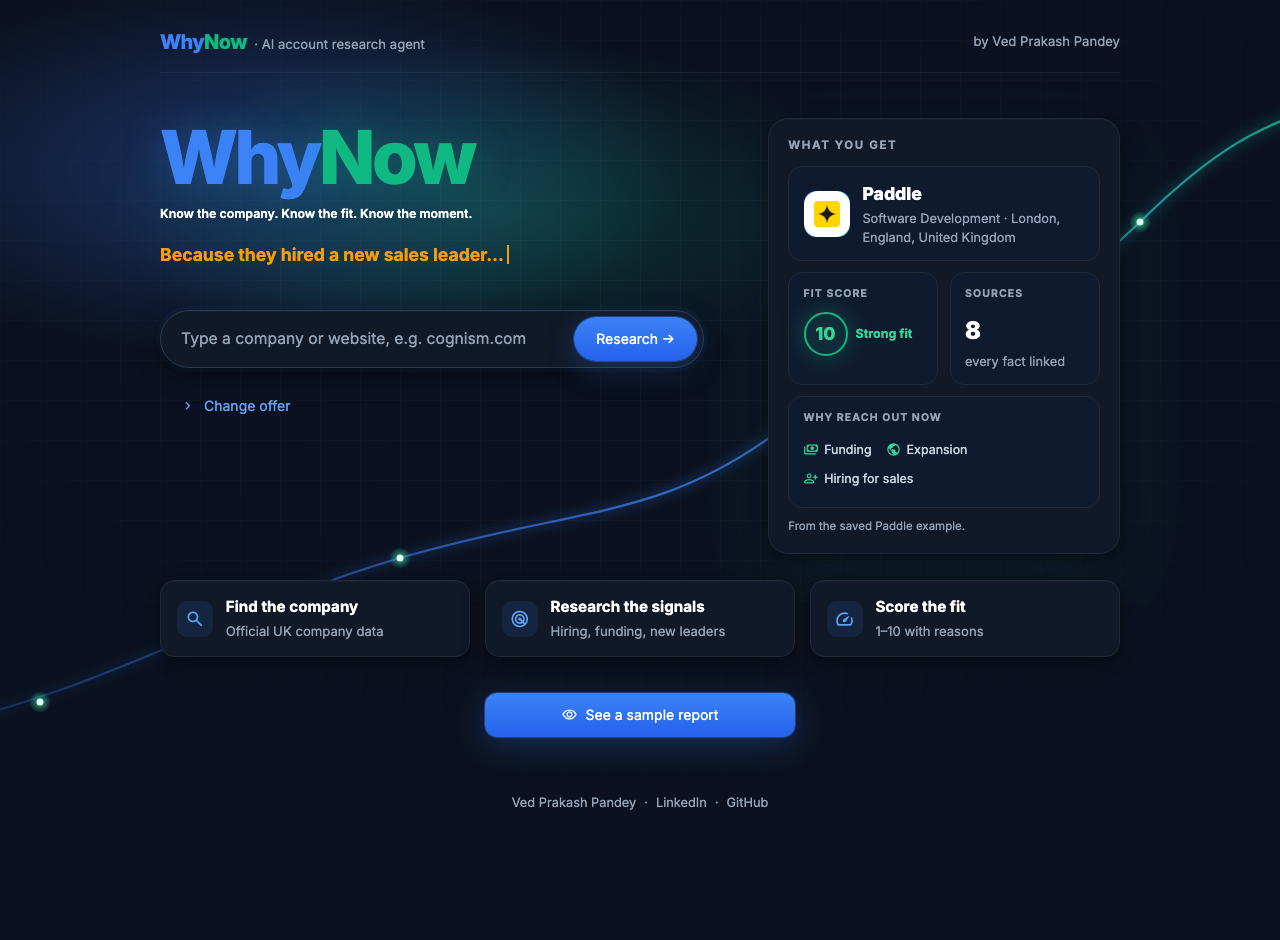
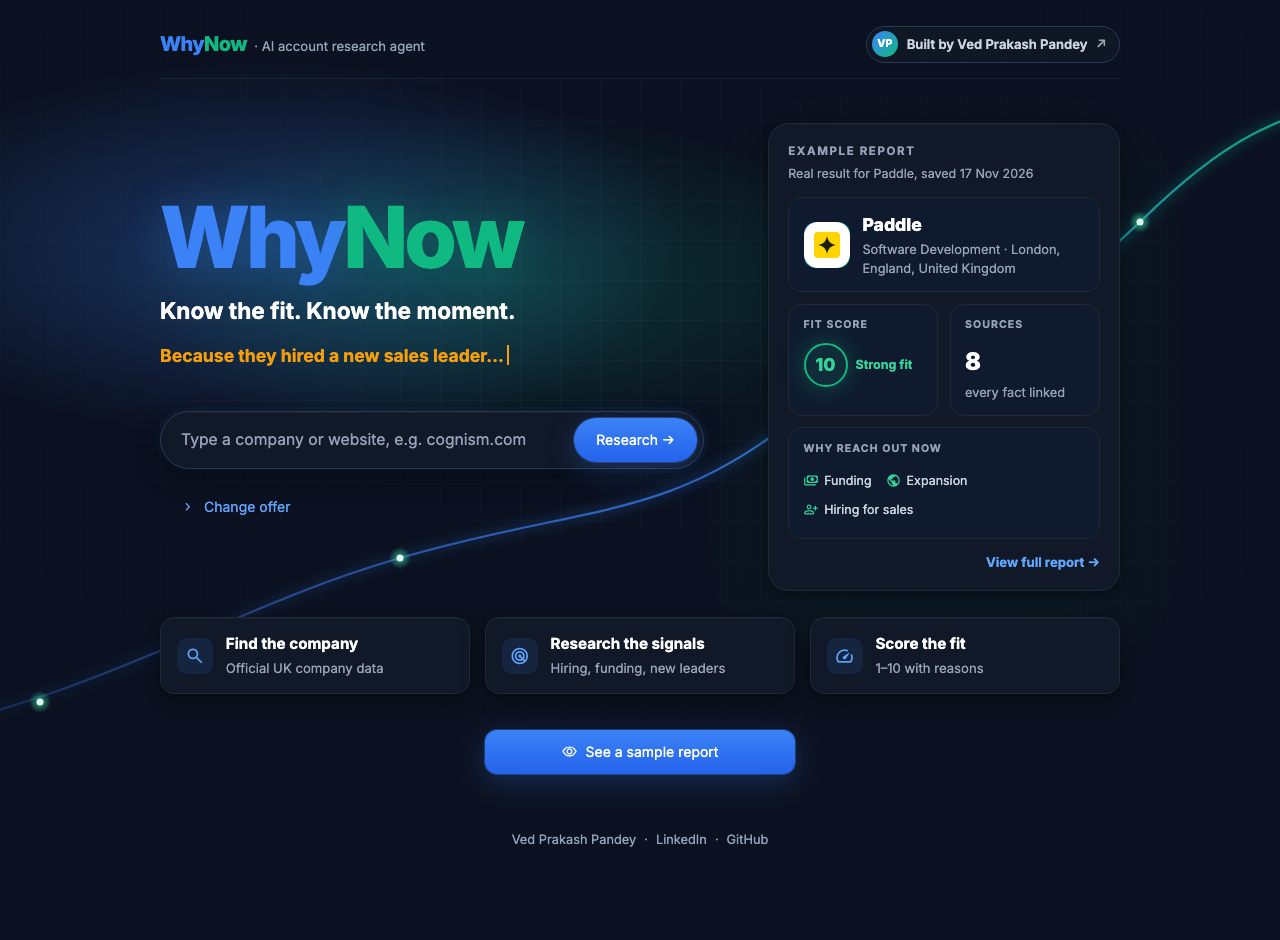
Author pill, bigger title with 'Know the fit. Know the moment.', centred hero, offer hint, clickable example report card

diff --git a/ui/style.css b/ui/style.css
@@ -66,22 +66,30 @@ a:hover { text-decoration: underline; }
 .wn-mini { font-size: 1.25rem; font-weight: 800; color: var(--blue); letter-spacing: -0.03em; }
 .wn-mini span { color: var(--emerald); }
 .wn-topbar-label { color: var(--muted); font-size: 0.82rem; }
-.wn-topbar-by { color: var(--muted) !important; font-size: 0.82rem; }
-.wn-topbar-by:hover { color: var(--head) !important; text-decoration: none; }
+.wn-built { display: inline-flex; align-items: center; gap: 0.55rem; padding: 0.3rem 0.8rem 0.3rem 0.3rem; border-radius: 999px;
+  border: 1px solid var(--line-strong); background: rgba(17, 24, 39, 0.7); color: var(--body) !important; font-size: 0.82rem;
+  font-weight: 600; transition: border-color .15s, box-shadow .15s, color .15s; }
+.wn-built:hover { text-decoration: none; color: var(--head) !important; border-color: rgba(59, 130, 246, 0.6);
+  box-shadow: 0 0 0 3px rgba(59, 130, 246, 0.12), 0 0 18px rgba(16, 185, 129, 0.18); }
+.wn-vp { display: inline-flex; align-items: center; justify-content: center; width: 26px; height: 26px; border-radius: 50%;
+  background: linear-gradient(135deg, var(--blue), var(--emerald)); color: #FFFFFF; font-size: 0.66rem; font-weight: 800; letter-spacing: 0.02em; }
+.wn-built-short { display: none; }
+.wn-arrow { color: var(--muted); font-size: 0.8rem; }
+.wn-built:hover .wn-arrow { color: var(--emerald-bright); }
 .wn-home:hover { text-decoration: none; opacity: 0.85; }
 .wn-back { display: inline-block; color: var(--muted) !important; font-size: 0.85rem; font-weight: 600; margin: 0.2rem 0 0.4rem; }
 .wn-back:hover { color: var(--head) !important; text-decoration: none; }
 
 /* ---------- Hero (left column) ---------- */
 .wn-hero { padding: 1.4rem 0 0.2rem; }
-.wn-wordmark { font-size: 4.6rem; font-weight: 800; color: var(--blue); letter-spacing: -0.045em; line-height: 1;
+.wn-wordmark { font-size: 5.3rem; font-weight: 800; color: var(--blue); letter-spacing: -0.045em; line-height: 1;
   text-shadow: 0 0 40px rgba(59, 130, 246, 0.25); }
 .wn-wordmark span { color: var(--emerald); text-shadow: 0 0 40px rgba(16, 185, 129, 0.25); }
 /* Title block: as wide as the "WhyNow" title, so the headline under it can match its width */
 .wn-title { display: inline-block; }
 .wn-title .wn-wordmark { display: inline-block; }
-/* Headline: one line, no wider than the title (about 0.17 x the title's size), white, lighter weight */
-.stApp .wn-headline, .wn-headline { font-size: calc(4.6rem * 0.168); font-weight: 600; color: var(--head); margin: 0.7rem 0 0;
+/* Headline: one line, white and bold, sized to fill close to the title's width without going past it */
+.stApp .wn-headline, .wn-headline { font-size: calc(5.3rem * 0.268); font-weight: 700; color: var(--head); margin: 1rem 0 0;
   padding: 0; letter-spacing: 0; line-height: 1.3; white-space: nowrap; }
 .wn-headline span { white-space: nowrap; }  /* each short sentence stays on one line */
 
@@ -125,14 +133,24 @@ a:hover { text-decoration: underline; }
 .st-key-wn_search [data-testid="stFormSubmitButton"] > button { border-radius: 999px; padding: 0 1.4rem; min-height: 2.75rem; white-space: nowrap; }
 /* "Change offer": a tiny link under the bar */
 .st-key-wn_offer details { background: transparent !important; border: none !important; box-shadow: none !important; }
+.st-key-wn_offer summary, .st-key-wn_offer summary:hover { background: transparent !important; }
 .st-key-wn_offer summary { padding: 0.35rem 0 0 1.25rem; color: var(--blue-bright); font-size: 0.8rem; font-weight: 600; }
 .st-key-wn_offer summary svg { width: 14px; height: 14px; }
+.st-key-wn_offer [data-testid="stExpanderDetails"] { background: var(--card); border: 1px solid var(--line); border-radius: 14px;
+  padding: 0.9rem 1rem 0.7rem !important; margin-top: 0.4rem; box-shadow: var(--shadow); }
+.st-key-wn_offer [data-testid="stCaptionContainer"] { color: var(--muted); font-size: 0.78rem; }
 
 /* ---------- Preview card (right column) ---------- */
 /* Solid (not see-through), so the growth line passes fully behind it */
 .wn-preview { background: var(--card); border: 1px solid var(--line); border-radius: 20px; padding: 1.1rem 1.2rem;
   box-shadow: var(--shadow), 0 30px 80px rgba(16, 185, 129, 0.08); margin-top: 1.2rem; position: relative; }
-.wn-preview-title { color: var(--muted); font-size: 0.72rem; font-weight: 700; letter-spacing: 0.14em; margin-bottom: 0.7rem; }
+.wn-preview-title { color: var(--muted); font-size: 0.72rem; font-weight: 700; letter-spacing: 0.14em; }
+.wn-preview-sub { color: var(--muted); font-size: 0.78rem; margin: 0.25rem 0 0.8rem; }
+a.wn-preview-link { display: block; color: inherit !important; transition: border-color .15s, box-shadow .15s, transform .15s; }
+a.wn-preview-link:hover { text-decoration: none; border-color: rgba(59, 130, 246, 0.55); transform: translateY(-2px);
+  box-shadow: var(--shadow), 0 0 0 3px rgba(59, 130, 246, 0.10), 0 30px 80px rgba(16, 185, 129, 0.14); }
+.wn-pv-view { color: var(--blue-bright); font-size: 0.82rem; font-weight: 700; margin-top: 0.8rem; text-align: right; }
+a.wn-preview-link:hover .wn-pv-view { color: var(--emerald-bright); }
 .wn-pv { background: var(--tile); border: 1px solid var(--line); border-radius: 14px; padding: 0.8rem 0.9rem; }
 .wn-pv-grid { display: grid; grid-template-columns: 1fr 1fr; gap: 0.7rem; margin-top: 0.7rem; }
 /* Fit score and sources side by side; "why now" full width underneath, its signals in one row */
@@ -259,13 +277,15 @@ a:hover { text-decoration: underline; }
 
 /* ---------- Phones: stack, smaller type ---------- */
 @media (max-width: 760px) {
-  .wn-wordmark { font-size: 3.4rem; }
   .stApp .wn-headline, .wn-headline { font-size: 1.05rem; white-space: normal; }
   .wn-typing span { font-size: 0.98rem; }
   .wn-steps { grid-template-columns: 1fr; }
   .wn-fit { flex-direction: column; }
   .wn-name { font-size: 1.4rem; }
   .wn-topbar-label { display: none; }
+  .wn-built-full { display: none; }
+  .wn-built-short { display: inline; }
+  .wn-wordmark { font-size: 3.6rem; }
   .st-key-wn_search [data-testid="stHorizontalBlock"] { padding-left: 14px; }
   .st-key-wn_search [data-testid="stFormSubmitButton"] > button { padding: 0 1rem; }
 }

diff --git a/ui/components.py b/ui/components.py
@@ -100,11 +100,20 @@ def topbar():
     return (f'<div class="wn-topbar"><div class="wn-topbar-brand">'
             f'<a class="wn-home" href="{HOME_URL}" target="_self" title="Back to home">{wordmark("wn-mini")}</a>'
             f'<span class="wn-topbar-label">· {esc(settings.APP_LABEL)}</span></div>'
-            f'<a class="wn-topbar-by" href="{safe_url(settings.AUTHOR_LINKEDIN)}" target="_blank" '
-            f'rel="noopener noreferrer">by {esc(settings.AUTHOR_NAME)}</a></div>')
+            f'{author_pill()}</div>')
+
+
+def author_pill():
+    """Top-right pill: 'VP' badge, 'Built by …' and ↗, linking to LinkedIn in a new tab."""
+    return (f'<a class="wn-built" href="{safe_url(settings.AUTHOR_LINKEDIN)}" target="_blank" rel="noopener noreferrer">'
+            f'<span class="wn-vp">{esc(settings.AUTHOR_INITIALS)}</span>'
+            f'<span class="wn-built-full">Built by {esc(settings.AUTHOR_NAME)}</span>'
+            f'<span class="wn-built-short">Built by {esc(settings.AUTHOR_SHORT_NAME)}</span>'
+            f'<span class="wn-arrow" aria-hidden="true">↗</span></a>')
 
 
 HOME_URL = "./"   # the home page without "?sample=1"; loading it starts fresh, so the report is cleared
+SAMPLE_URL = "./?sample=1"   # opens the saved sample report
 
 
 def back_link():
@@ -151,8 +160,8 @@ def _background_svg():
     <stop offset="0%" stop-color="#34D399" stop-opacity="0.75"/><stop offset="100%" stop-color="#34D399" stop-opacity="0"/></radialGradient>
   <filter id="blur" x="-50%" y="-50%" width="200%" height="200%"><feGaussianBlur stdDeviation="6"/></filter>
 </defs>
-<ellipse cx="430" cy="210" rx="420" ry="190" fill="url(#auroraBlue)"/>
-<ellipse cx="650" cy="250" rx="380" ry="170" fill="url(#auroraGreen)"/>
+<ellipse cx="430" cy="290" rx="420" ry="190" fill="url(#auroraBlue)"/>
+<ellipse cx="650" cy="320" rx="380" ry="170" fill="url(#auroraGreen)"/>
 <rect width="1600" height="860" fill="url(#grid)" mask="url(#gridmask)"/>
 <path d="{path}" fill="none" stroke="url(#line)" stroke-width="7" stroke-opacity="0.35" filter="url(#blur)"/>
 <path d="{path}" fill="none" stroke="url(#line)" stroke-width="2.2" stroke-linecap="round"/>
@@ -190,15 +199,23 @@ def preview_card(sample=None):
         score = sample["fit_score"]
         signals = [SIGNALS.get(s["type"], (s["type"], "bolt")) for s in sample["signals"][:3]]
         source_count = len(sample["sources"])
-        logo_html, note = logo(p), f"From the saved {esc(name)} example."
+        logo_html = logo(p)
+        subtitle = f"Real result for {esc(name)}, saved {esc(sample.get('saved_on', ''))}"
+        note = '<div class="wn-pv-view">View full report →</div>'
     else:
         name, meta, score, source_count = "Your target company", "Industry · Headquarters", 8, 12
         signals = [SIGNALS["hiring_sales"], SIGNALS["funding"], SIGNALS["new_sales_leader"]]
-        logo_html, note = f'<div class="wn-logo">{icon("domain")}</div>', "Example layout. Every report is built from live, sourced data."
+        logo_html = f'<div class="wn-logo">{icon("domain")}</div>'
+        subtitle = "Example layout. Every report is built from live, sourced data."
+        note = ""
     kind, label = fit_band(score)
     lines = "".join(f'<div class="wn-pv-line">{icon(i)}{esc(t)}</div>' for t, i in signals) \
         or '<div class="wn-pv-line wn-empty">None found</div>'
-    return (f'<div class="wn-preview"><div class="wn-preview-title">WHAT YOU GET</div>'
+    opening = (f'<a class="wn-preview wn-preview-link" href="{SAMPLE_URL}" title="Open the full sample report">'
+               if sample else '<div class="wn-preview">')
+    closing = "</a>" if sample else "</div>"
+    return (f'{opening}<div class="wn-preview-title">EXAMPLE REPORT</div>'
+            f'<div class="wn-preview-sub">{subtitle}</div>'
             f'<div class="wn-pv"><div class="wn-pv-company">{logo_html}'
             f'<div><div class="wn-pv-name">{esc(name)}</div><div class="wn-pv-meta">{meta}</div></div></div></div>'
             f'<div class="wn-pv-grid">'
@@ -208,7 +225,7 @@ def preview_card(sample=None):
             f'<div class="wn-pv"><div class="wn-pv-label">{esc(settings.SIGNALS_TITLE)}</div>{lines}</div>'
             f'<div class="wn-pv"><div class="wn-pv-label">Sources</div><div class="wn-pv-big">{source_count}</div>'
             f'<div class="wn-pv-meta">every fact linked</div></div>'
-            f'</div><div class="wn-pv-note">{note}</div></div>')
+            f'</div>{note}{closing}')
 
 
 def footer():

diff --git a/tests/test_components.py b/tests/test_components.py
@@ -83,18 +83,20 @@ def test_header_has_slogan_and_typing_lines():
     import settings
     out = ui.hero()
     assert "Before you reach out" not in out                       # the old tagline is gone
-    assert ('<h2 class="wn-headline"><span>Know the company.</span> <span>Know the fit.</span> '
-            '<span>Know the moment.</span></h2>') in out
+    assert '<h2 class="wn-headline"><span>Know the fit.</span> <span>Know the moment.</span></h2>' in out
+    assert "Know the company" not in out
     for line in settings.APP_TYPING_LINES:
         assert ui.esc(line) in out
     assert "<script" not in out   # the animation is pure CSS
 
 
-def test_top_bar_has_label_and_byline():
+def test_top_bar_has_label_and_author_pill():
     import settings
     out = ui.topbar()
     assert "AI account research agent" in out
-    assert f'href="{settings.AUTHOR_LINKEDIN}"' in out and "by Ved Prakash Pandey" in out
+    assert f'class="wn-built" href="{settings.AUTHOR_LINKEDIN}" target="_blank"' in out
+    assert '<span class="wn-vp">VP</span>' in out
+    assert "Built by Ved Prakash Pandey" in out and "Built by Ved<" in out and "↗" in out
 
 
 def test_landing_background_is_a_safe_embedded_picture():
@@ -105,16 +107,21 @@ def test_landing_background_is_a_safe_embedded_picture():
 def test_preview_card_without_sample_shows_no_company_facts():
     out = ui.preview_card(None)
     assert "Your target company" in out and "Example layout" in out
+    assert "<a " not in out              # nothing to open without a saved sample
 
 
 def test_preview_card_uses_the_saved_sample():
     sample = {"profile": {"brand": {"value": "Paddle"}, "industry": {"value": "Software Development"},
                           "headquarters": {"value": "London"}, "domain": "paddle.com"},
-              "company": {"name": "PADDLE.COM MARKET LIMITED"}, "fit_score": 9,
+              "company": {"name": "PADDLE.COM MARKET LIMITED"}, "fit_score": 9, "saved_on": "17 Nov 2026",
               "signals": [{"type": "funding"}], "sources": [1, 2, 3]}
     out = ui.preview_card(sample)
     assert "Paddle" in out and "Software Development · London" in out
     assert "Why reach out now" in out
+    assert "EXAMPLE REPORT" in out and "WHAT YOU GET" not in out
+    assert out.startswith('<a class="wn-preview wn-preview-link" href="./?sample=1"')   # whole card opens the sample
+    assert "View full report →" in out and "From the saved" not in out
+    assert "Real result for Paddle, saved 17 Nov 2026" in out
     assert 'wn-badge strong' in out and ">9<" in out and ">3<" in out
 
 

diff --git a/settings.py b/settings.py
@@ -118,7 +118,7 @@ GEMINI_FALLBACK_MODELS = [          # tried in order, once each, if the main mod
 # ---------------------------------------------------------------------------
 APP_NAME = "WhyNow"
 APP_LABEL = "AI account research agent"
-APP_HEADLINE = "Know the company. Know the fit. Know the moment."
+APP_HEADLINE = "Know the fit. Know the moment."
 SIGNALS_TITLE = "Why reach out now"   # the heading for "why now" signals, in the report and the landing preview
 APP_TYPING_LINES = [             # the animated amber line on the landing page
     "Because they're hiring SDRs…",
@@ -127,7 +127,10 @@ APP_TYPING_LINES = [             # the animated amber line on the landing page
     "Because they're expanding to new markets…",
 ]
 SEARCH_PLACEHOLDER = "Type a company or website, e.g. cognism.com"
+OFFER_HINT = "WhyNow uses this to score the fit and write your email."
 AUTHOR_NAME = "Ved Prakash Pandey"
+AUTHOR_SHORT_NAME = "Ved"          # used in the header pill on phones
+AUTHOR_INITIALS = "VP"
 AUTHOR_LINKEDIN = "https://www.linkedin.com/in/ved-prakash-pandey-954493202/"
 AUTHOR_GITHUB = "https://github.com/ved-pandey01"
 SAMPLE_REPORT_FILE = "data/sample_report_paddle.json"   # the saved example behind "See a sample report"

diff --git a/tests/test_app.py b/tests/test_app.py
@@ -93,10 +93,11 @@ def research_and_open(at):
 def test_landing_shows_brand_slogan_and_how_it_works(app):
     app.run()
     page = html(app)
-    for text in [settings.APP_LABEL, "Why<span>Now</span>", "Know the company.", "Know the fit.", "Know the moment.",
+    for text in [settings.APP_LABEL, "Why<span>Now</span>", "Know the fit.", "Know the moment.",
                  "Find the company", "Research the signals", "Score the fit"]:
         assert text in page
     assert app.text_area[0].value.startswith("An AI tool that helps SDR teams")
+    assert any(c.value == settings.OFFER_HINT for c in app.caption)
 
 
 def test_footer_has_author_links(app):
@@ -122,6 +123,7 @@ def test_sample_report_loads_with_no_api_calls(app, monkeypatch, tmp_path):
     button(app, "See a sample report").click().run()
     assert not app.exception
     assert "Saved example from 17 Nov 2026" in app.info[0].value
+    assert "← Back to home" in html(app)
     button(app, "Create email for this company").click().run()
     assert app.code[0].value.startswith("Hi [First name]")
 

diff --git a/app.py b/app.py
@@ -82,6 +82,7 @@ def search_form():
     # The offer keeps its default unless the user opens "Change offer"
     with st.expander("Change offer", key="wn_offer"):
         st.text_area("What are you selling?", value=settings.DEFAULT_OFFER, height=80, key="offer_text")
+        st.caption(settings.OFFER_HINT)
     if submitted:
         for key in ("report", "email", "sample"):
             st.session_state.pop(key, None)
@@ -109,7 +110,7 @@ def landing():
     Then the three step cards and the sample button."""
     sample = load_sample()
     st.html(ui.landing_background())
-    left, right = st.columns([1.5, 1], gap="large")
+    left, right = st.columns([1.5, 1], gap="large", vertical_alignment="center")
     with left:
         st.html(ui.hero())
         search_form()

diff --git a/README.md b/README.md
@@ -1,6 +1,6 @@
 # WhyNow
 
-**Know the company. Know the fit. Know the moment.**
+**Know the fit. Know the moment.**
 
 WhyNow is an AI account research agent for SDRs and sales teams. Type any UK company and, in under a minute, see:
 - **who they are:** a short, sourced snapshot with key stats (headcount and trend, founded, funding, revenue)
@@ -34,23 +34,24 @@ Python · Streamlit (with custom CSS) · Companies House API · Tavily · Gemini
 .venv/bin/streamlit run app.py
 ```
 Your browser opens at http://localhost:8501. Then:
-1. Type a company name or website. The "What are you selling?" box is pre-filled from [settings.py](settings.py), and you can edit it.
+1. Type a company name or website in the search bar and press **Research →** (or Enter). What you're selling is pre-filled from [settings.py](settings.py). Open the small **Change offer** link to edit it, because WhyNow uses it to score the fit and write your email.
 2. Pick the right company. Each Companies House match is a small card showing its industry, size, founded year and city. The biggest companies come first. You get a warning if none of them is a close match.
 3. Click **Research this company** (usually 20–45 seconds). The report shows:
    - a banner with the logo, a one-line summary, and a profile card (industry, HQ, website, LinkedIn followers)
-   - key stat tiles, and the fit score as a colour-coded badge (green 7–10, amber 4–6, red 1–3)
+   - key stat tiles (if funding is reported in more than one currency, the first is shown as the total and the others in small grey text), and the fit score as a colour-coded badge (green 7–10, amber 4–6, red 1–3)
    - who to contact, "Why reach out now" tiles with icons, recent news, what we couldn't find, and sources
 
    Every small `S1`-style tag links to its source.
 4. Click **Create email for this company** to write the email. For scores of 3 or under, a note says it's probably not worth contacting.
 5. Open "Behind the scenes" to see what code changed in the AI's answer and how long each step took.
+6. To start again, click the **WhyNow** logo in the top bar or **← Back to home** above the report. Both clear the current report.
 
-**See a sample report:** the landing page has a button for a saved real report. You can also link straight to it with `http://localhost:8501/?sample=1`. It uses no API calls and needs no keys. To refresh it: `.venv/bin/python -m scripts.save_sample`. The research is saved first in `.cache/` (git-ignored), so if the AI step fails, running it again costs no Tavily credits.
+**See a sample report:** on the landing page, click the **Example report** card (a real result for Paddle, saved 17 Nov 2026) or the **See a sample report** button. You can also link straight to it with `http://localhost:8501/?sample=1`. It uses no API calls and needs no keys. To refresh it: `.venv/bin/python -m scripts.save_sample`. The research is saved first in `.cache/` (git-ignored), so if the AI step fails, running it again costs no Tavily credits.
 
 Results are cached: looking up the same company again within 6 hours costs no API credits. Stop the app with `Ctrl + C` in the terminal.
 
 ## Design
-- Our own look in [ui/style.css](ui/style.css): a premium dark theme with royal blue, emerald and an amber typing line, the Inter font, and dark cards with soft shadows. The landing page has a two-column hero, a Google-style search bar and a subtle grid and line-chart background. The layout stacks on phones.
+- Our own look in [ui/style.css](ui/style.css): a premium dark theme with royal blue, emerald and an amber typing line, the Inter font, and dark cards with soft shadows. The landing page has a two-column hero (the WhyNow title, "Know the fit. Know the moment.", an animated "Because…" line and a Google-style search bar on the left; a clickable example report on the right), a subtle grid and line-chart background, and a "Built by Ved Prakash Pandey" pill linking to LinkedIn. The layout stacks on phones.
 - Each part of the page is a small function in [ui/components.py](ui/components.py).
 - **Safety:** all text fetched from the internet is escaped before it goes on the page, and links only allow http(s), so a web page title can never add code to WhyNow.
 - Logos come from the company website's icon (DuckDuckGo's icon service), with the company's initials behind it as a fallback.
